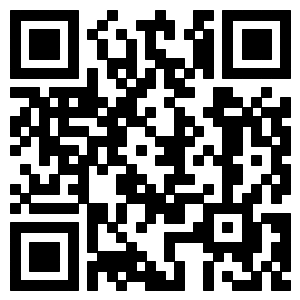
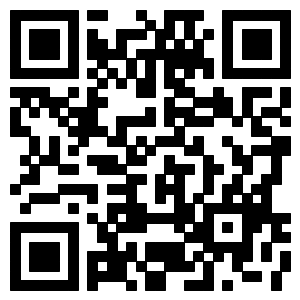
:package: 调整example

diff --git a/README.MD b/README.MD
@@ -9,7 +9,7 @@ Scan the qr-code using your phone
 
 ![image](https://raw.githubusercontent.com/garfileds/vue-night-switch/master/examples/images/demo-qr.png)
 
-Or visit `http://45.78.23.100:3020/vueNightSwitch` in your phone
+Or visit `http://adoug.info/demo/vueNightSwitch` in your phone
 
 # Install
 
